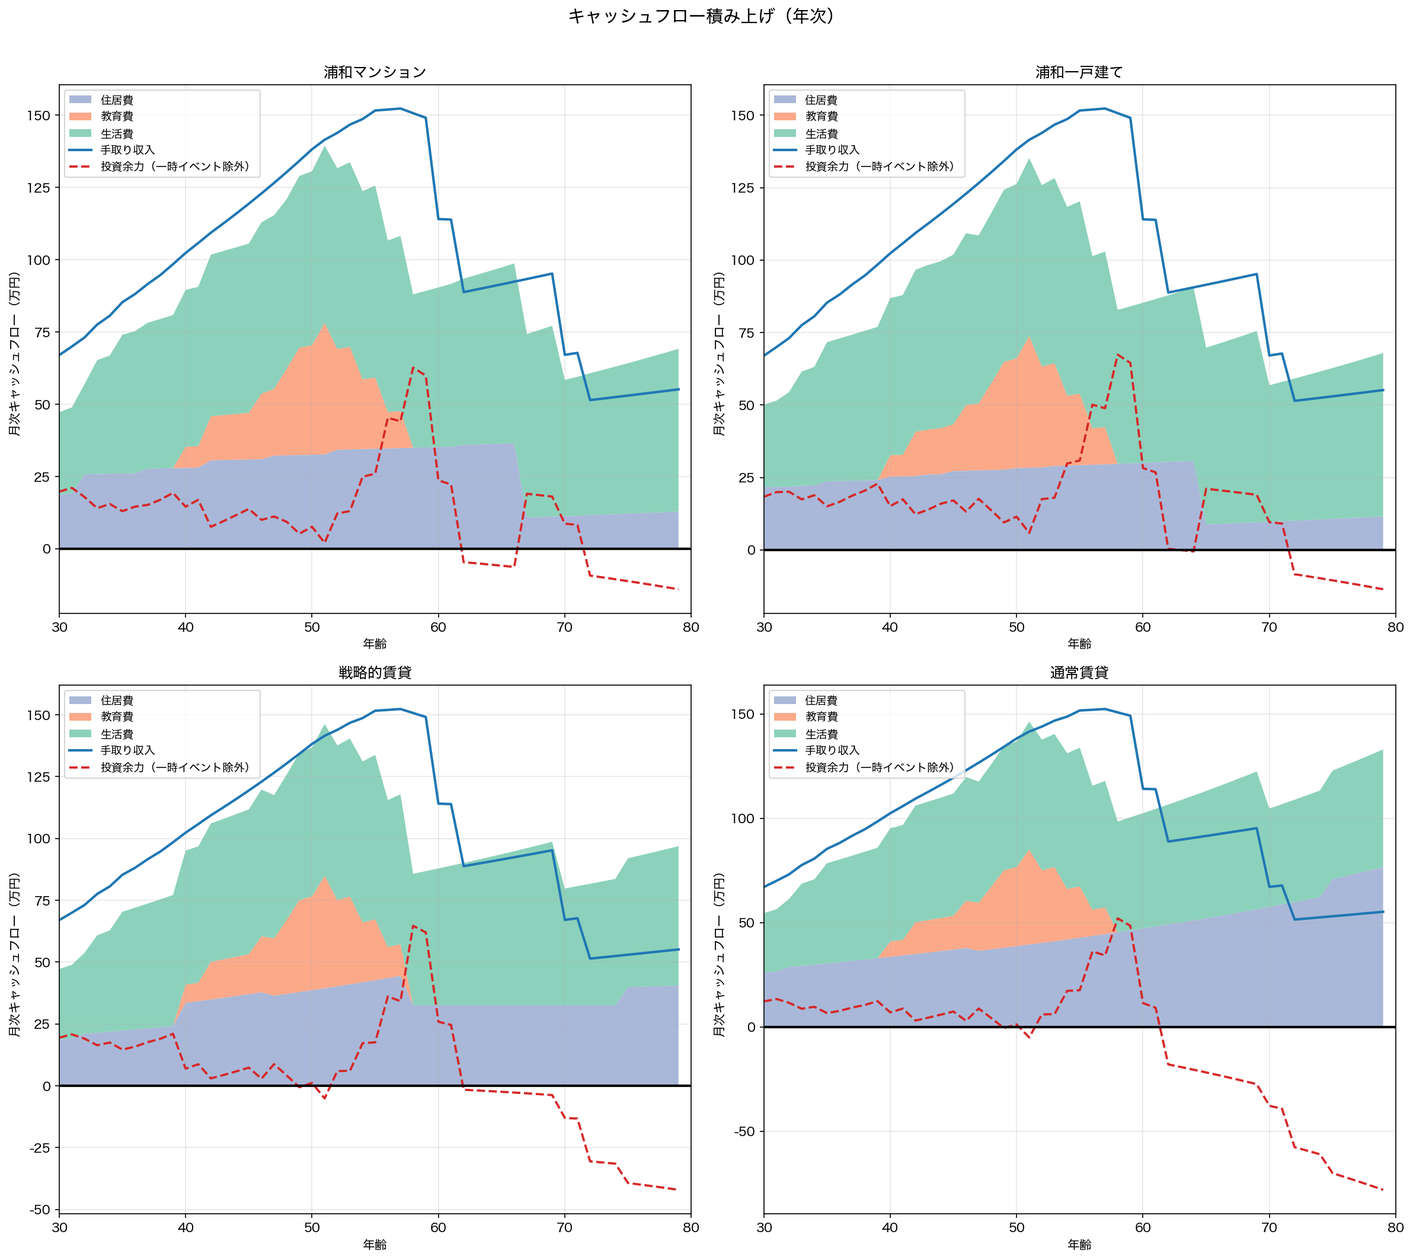
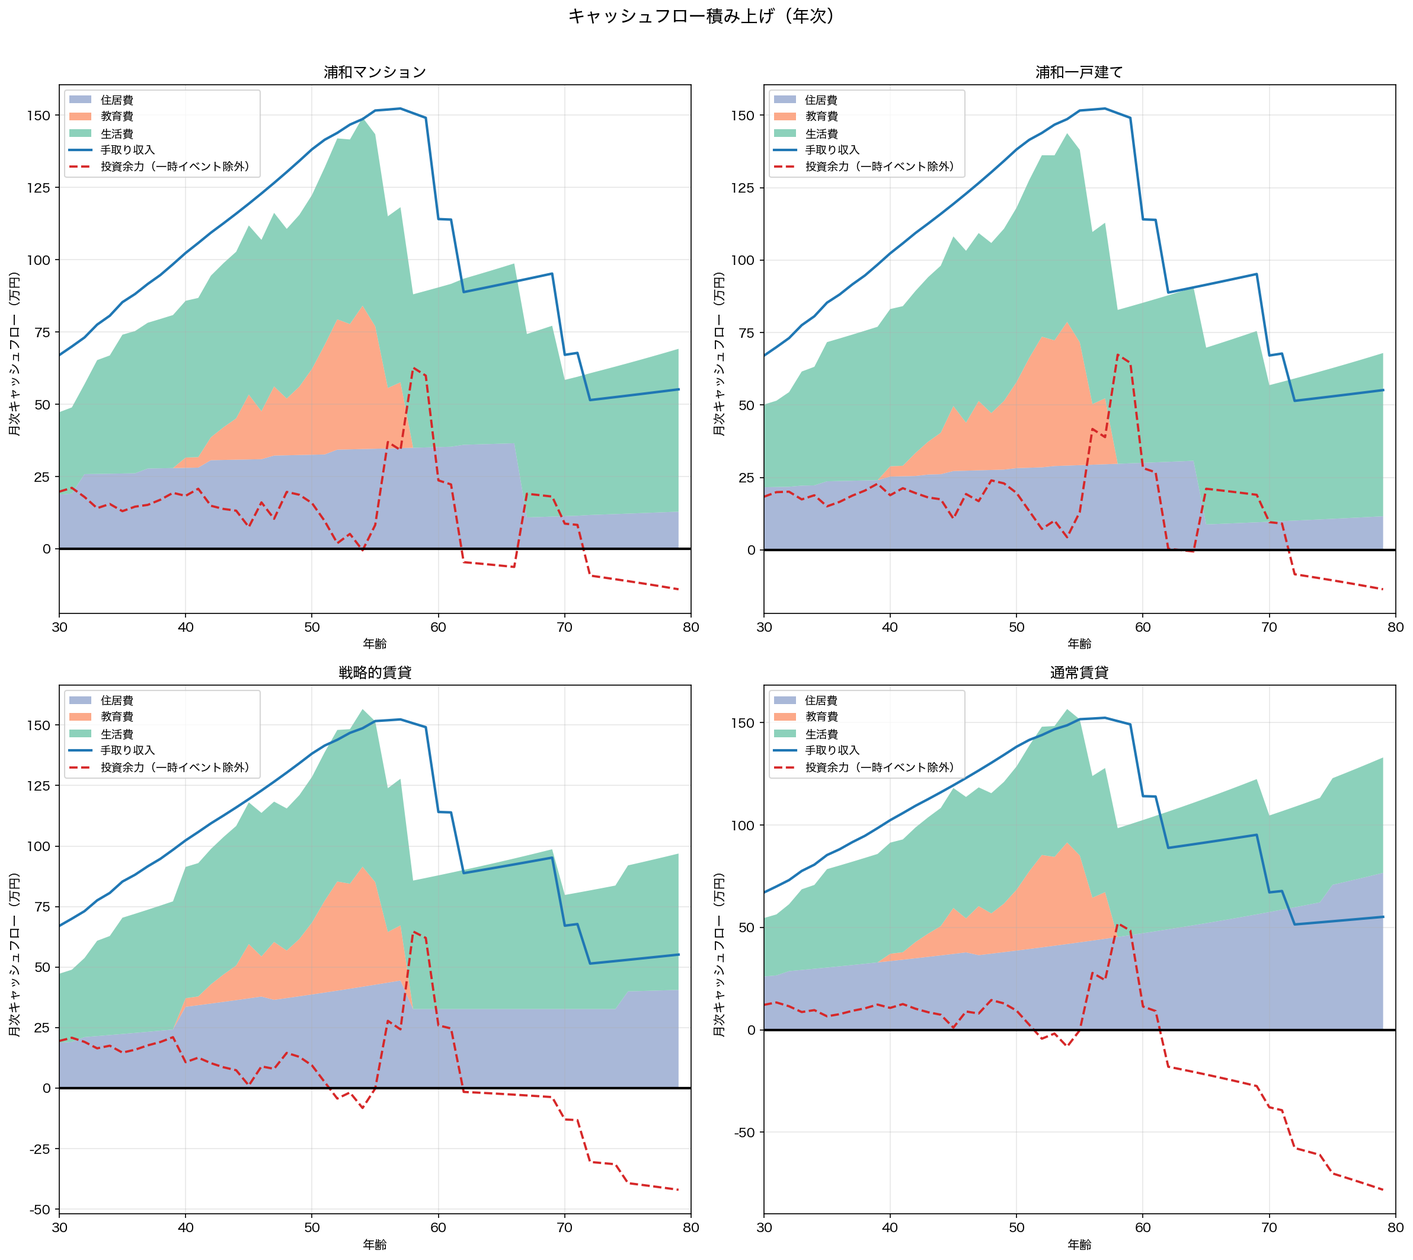
Replace education ratio model with 4-track annual schedule
Replace education_cost_monthly × stage-ratio with _EDUCATION_COSTS
dictionary (child_age 7-27 → 4-tuple: national-arts/science,
private-arts/science in 万円/year). New params: education_private_from,
education_field, education_boost, education_grad. Elementary school
costs are uniform across all tracks (public). Old TOML education key
auto-migrated in load_config().

diff --git a/tests/test_simulation.py b/tests/test_simulation.py
@@ -73,19 +73,19 @@ class TestSnapshotAge37:
 
     def test_mansion(self):
         r = simulate_strategy(UrawaMansion(800), self.params, husband_start_age=37, wife_start_age=37, child_birth_ages=[39])
-        assert r["after_tax_net_assets"] == pytest.approx(43387.448210, abs=0.01)
+        assert r["after_tax_net_assets"] == pytest.approx(46065.007126, abs=0.01)
 
     def test_house(self):
         r = simulate_strategy(UrawaHouse(800), self.params, husband_start_age=37, wife_start_age=37, child_birth_ages=[39])
-        assert r["after_tax_net_assets"] == pytest.approx(50384.390994, abs=0.01)
+        assert r["after_tax_net_assets"] == pytest.approx(53039.812717, abs=0.01)
 
     def test_strategic_rental(self):
         r = simulate_strategy(StrategicRental(800, child_birth_ages=[39], start_age=37), self.params, husband_start_age=37, wife_start_age=37, child_birth_ages=[39])
-        assert r["after_tax_net_assets"] == pytest.approx(49043.730528, abs=0.01)
+        assert r["after_tax_net_assets"] == pytest.approx(51692.082683, abs=0.01)
 
     def test_normal_rental(self):
         r = simulate_strategy(NormalRental(800), self.params, husband_start_age=37, wife_start_age=37, child_birth_ages=[39])
-        assert r["after_tax_net_assets"] == pytest.approx(38459.588921, abs=0.01)
+        assert r["after_tax_net_assets"] == pytest.approx(41179.222965, abs=0.01)
 
 
 class TestSnapshotDetails:
@@ -96,7 +96,7 @@ class TestSnapshotDetails:
         self.r = simulate_strategy(UrawaMansion(800), params, husband_start_age=37, wife_start_age=37, child_birth_ages=[39])
 
     def test_nisa_balance(self):
-        assert self.r["nisa_balance"] == pytest.approx(31418.841373, abs=0.01)
+        assert self.r["nisa_balance"] == pytest.approx(31569.281563, abs=0.01)
 
     def test_land_value(self):
         assert self.r["land_value_80"] == pytest.approx(2613.043089, abs=0.01)
@@ -123,7 +123,7 @@ class TestEdgeAges:
     def test_age_25(self):
         params = SimulationParams(husband_income=47.125, wife_income=25.375)
         r = simulate_strategy(StrategicRental(800, child_birth_ages=[39], start_age=25), params, husband_start_age=25, wife_start_age=25, child_birth_ages=[39])
-        assert r["after_tax_net_assets"] == pytest.approx(244831.565034, abs=0.01)
+        assert r["after_tax_net_assets"] == pytest.approx(248161.353920, abs=0.01)
         assert r["bankrupt_age"] is None
 
     def test_age_45(self):
@@ -133,7 +133,7 @@ class TestEdgeAges:
         params = SimulationParams(husband_income=47.125, wife_income=25.375)
         r = simulate_strategy(StrategicRental(800, child_birth_ages=[39], start_age=45), params, husband_start_age=45, wife_start_age=45, child_birth_ages=[39])
         assert r["bankrupt_age"] is None
-        assert r["after_tax_net_assets"] == pytest.approx(7824.205060, abs=0.01)
+        assert r["after_tax_net_assets"] == pytest.approx(10496.531001, abs=0.01)
 
 
 class TestBankruptcy:
@@ -172,7 +172,7 @@ class TestDisciplineFactor:
         r_full = simulate_strategy(StrategicRental(800, child_birth_ages=[39], start_age=37), params, husband_start_age=37, wife_start_age=37, discipline_factor=1.0, child_birth_ages=[39])
         r_reduced = simulate_strategy(StrategicRental(800, child_birth_ages=[39], start_age=37), params, husband_start_age=37, wife_start_age=37, discipline_factor=0.8, child_birth_ages=[39])
         assert r_full["after_tax_net_assets"] > r_reduced["after_tax_net_assets"]
-        assert r_reduced["after_tax_net_assets"] == pytest.approx(39865.698292, abs=0.01)
+        assert r_reduced["after_tax_net_assets"] == pytest.approx(42067.172583, abs=0.01)
 
 
 class TestChildBirthAges:
@@ -180,7 +180,7 @@ class TestChildBirthAges:
         """child_birth_ages=[38] should produce known snapshot."""
         params = SimulationParams(husband_income=47.125, wife_income=25.375)
         r = simulate_strategy(StrategicRental(800, child_birth_ages=[38], start_age=37), params, husband_start_age=37, wife_start_age=37, child_birth_ages=[38])
-        assert r["after_tax_net_assets"] == pytest.approx(48287.537793, abs=0.01)
+        assert r["after_tax_net_assets"] == pytest.approx(51056.142031, abs=0.01)
 
     def test_no_child_increases_assets(self):
         """No education costs → more investable → higher assets."""
@@ -628,3 +628,67 @@ class TestDivorceDeathMutualExclusion:
                 assert timeline.spouse_death_month is None
             if timeline.spouse_death_month is not None:
                 assert timeline.divorce_month is None
+
+
+class TestEducationSchedule:
+    """Tests for 4-track education cost schedule."""
+
+    def test_track_totals_undergrad(self):
+        """Verify total costs match plan table (学部 = ages 7-22)."""
+        from housing_sim_jp.simulation import _get_education_annual_cost
+        for pf, f, expected in [
+            ("", "文系", 1200), ("", "理系", 1230),
+            ("中学", "文系", 1630), ("中学", "理系", 1900),
+        ]:
+            total = sum(_get_education_annual_cost(a, pf, f, 1.0) for a in range(7, 23))
+            assert total == expected, f"{pf or '国立'}/{f}: got {total}, expected {expected}"
+
+    def test_all_public_elementary(self):
+        """Elementary school (7-12) costs are identical across all tracks."""
+        from housing_sim_jp.simulation import _get_education_annual_cost
+        for age in range(7, 13):
+            costs = [
+                _get_education_annual_cost(age, pf, f, 1.0)
+                for pf in ["", "中学", "高校", "大学"]
+                for f in ["文系", "理系"]
+            ]
+            assert len(set(costs)) == 1, f"age {age}: expected uniform, got {costs}"
+
+    def test_boost_applies_to_exam_years(self):
+        """boost should only affect ages 12, 15, 18."""
+        from housing_sim_jp.simulation import _get_education_annual_cost
+        for age in [12, 15, 18]:
+            normal = _get_education_annual_cost(age, "", "理系", 1.0)
+            boosted = _get_education_annual_cost(age, "", "理系", 1.2)
+            assert boosted == pytest.approx(normal * 1.2)
+        for age in [11, 13, 17]:
+            normal = _get_education_annual_cost(age, "", "理系", 1.0)
+            boosted = _get_education_annual_cost(age, "", "理系", 1.2)
+            assert boosted == normal
+
+    def test_private_from_university(self):
+        """private_from='大学' should only affect ages >= 19."""
+        from housing_sim_jp.simulation import _get_education_annual_cost
+        for age in range(7, 19):
+            pub = _get_education_annual_cost(age, "", "理系", 1.0)
+            priv = _get_education_annual_cost(age, "大学", "理系", 1.0)
+            assert pub == priv, f"age {age}: should be same"
+        pub19 = _get_education_annual_cost(19, "", "理系", 1.0)
+        priv19 = _get_education_annual_cost(19, "大学", "理系", 1.0)
+        assert priv19 > pub19
+
+    def test_private_from_higher_cost(self):
+        """Earlier private switch → higher total cost."""
+        from housing_sim_jp.simulation import _get_education_annual_cost
+        totals = {}
+        for pf in ["", "大学", "高校", "中学"]:
+            totals[pf] = sum(_get_education_annual_cost(a, pf, "理系", 1.0) for a in range(7, 23))
+        assert totals["中学"] > totals["高校"] > totals["大学"] > totals[""]
+
+    def test_new_model_in_simulation(self):
+        """Simulation should use new education params (not old education_cost_monthly)."""
+        params_pub = SimulationParams(husband_income=47.125, wife_income=25.375, education_private_from="")
+        params_priv = SimulationParams(husband_income=47.125, wife_income=25.375, education_private_from="中学")
+        r_pub = simulate_strategy(StrategicRental(800, child_birth_ages=[39], start_age=37), params_pub, husband_start_age=37, wife_start_age=37, child_birth_ages=[39])
+        r_priv = simulate_strategy(StrategicRental(800, child_birth_ages=[39], start_age=37), params_priv, husband_start_age=37, wife_start_age=37, child_birth_ages=[39])
+        assert r_pub["after_tax_net_assets"] > r_priv["after_tax_net_assets"]

diff --git a/housing_sim_jp/config.py b/housing_sim_jp/config.py
@@ -19,7 +19,10 @@ DEFAULTS = {
     "children": "30,33",
     "living_premium": 0.0,
     "child_living": 5.0,
-    "education": 10.0,
+    "education_private_from": "",
+    "education_field": "理系",
+    "education_boost": 1.0,
+    "education_grad": "学部",
     "car": False,
     "pets": "",
     "relocation": False,
@@ -66,6 +69,20 @@ def load_config(path: Path | None = None) -> dict:
         elif isinstance(v, int):
             # Backward compat: bare integer → empty (0) or error guidance
             raw["pets"] = "" if v == 0 else str(v)
+    # Migrate legacy education key → new 4-parameter model
+    if "education" in raw and "education_private_from" not in raw:
+        edu = raw.pop("education")
+        if isinstance(edu, (int, float)):
+            if edu <= 12:
+                raw["education_private_from"] = ""
+            elif edu <= 17:
+                raw["education_private_from"] = "高校"
+            else:
+                raw["education_private_from"] = "中学"
+            raw.setdefault("education_field", "理系")
+            raw.setdefault("education_boost", 1.0)
+    elif "education" in raw and "education_private_from" in raw:
+        raw.pop("education")  # new params take precedence
     # Normalize special_expenses: TOML [[age, amount, label?], ...] → "age:amount:label,..." string
     if "special_expenses" in raw:
         v = raw["special_expenses"]
@@ -89,10 +106,13 @@ def create_parser(description: str) -> argparse.ArgumentParser:
     parser.add_argument("--savings", type=float, default=None, help=f"初期金融資産・万円 (default: {d['savings']:.0f})")
     parser.add_argument("--husband-income", type=float, default=None, help=f"夫の月額手取り・万円 (default: {d['husband_income']})")
     parser.add_argument("--wife-income", type=float, default=None, help=f"妻の月額手取り・万円 (default: {d['wife_income']})")
-    parser.add_argument("--children", type=str, default=None, help=f"出産時の妻の年齢（カンマ区切り、:修士/:博士で大学院進学、例: 30,33:博士 / noneで子なし）(default: {d['children']})")
+    parser.add_argument("--children", type=str, default=None, help=f"出産時の妻の年齢（カンマ区切り、例: 30,33 / noneで子なし）(default: {d['children']})")
     parser.add_argument("--living-premium", type=float, default=None, help=f"生活費プレミアム（年齢別ベースラインへの上乗せ、万円/月）(default: {d['living_premium']})")
     parser.add_argument("--child-living", type=float, default=None, help=f"子1人あたりの追加生活費（万円/月）(default: {d['child_living']})")
-    parser.add_argument("--education", type=float, default=None, help=f"教育費ピーク/高校（万円/月/人）10=公立+予備校, 15=私立+予備校, 20=私立一貫+エリート塾 (default: {d['education']})")
+    parser.add_argument("--education-private-from", type=str, default=None, help="私立切替ステージ: \"\"=全公立, 中学, 高校, 大学 (default: 全公立)")
+    parser.add_argument("--education-field", type=str, default=None, help="進路: 理系, 文系 (default: 理系)")
+    parser.add_argument("--education-boost", type=float, default=None, help="受験年費用倍率 0.8=節約, 1.0=標準, 1.2=積極 (default: 1.0)")
+    parser.add_argument("--education-grad", type=str, default=None, help="最終学歴: 学部(22歳独立), 修士(24歳), 博士(27歳) (default: 学部)")
     parser.add_argument("--car", action="store_true", default=None, help="車所有（購入300万/7年買替+維持費5万/月を計上）")
     parser.add_argument("--pets", type=str, default=None, help="ペット迎え入れ時の夫の年齢（カンマ区切り、例: 38,40 / noneでペットなし）")
     parser.add_argument("--relocation", action="store_true", default=None, help="転勤族モード（転勤確率が年3%%→10%%に上昇）")
@@ -182,7 +202,10 @@ def build_params(r: dict, pet_sim_ages: tuple[int, ...] = ()) -> SimulationParam
         wife_income=r["wife_income"],
         living_premium=r["living_premium"],
         child_living_cost_monthly=r["child_living"],
-        education_cost_monthly=r["education"],
+        education_private_from=r["education_private_from"],
+        education_field=r["education_field"],
+        education_boost=r["education_boost"],
+        education_grad=r["education_grad"],
         has_car=r["car"],
         pet_adoption_ages=pet_sim_ages,
         husband_ideco=r["husband_ideco"],
@@ -204,7 +227,14 @@ def parse_args(description: str) -> tuple[dict, list[int], list[int], list[int]]
     args = parser.parse_args()
     config = load_config(args.config)
     r = resolve(args, config)
-    child_birth_ages, independence_ages = parse_children_config(r["children"])
+    child_birth_ages, legacy_indep = parse_children_config(r["children"])
+    # education_grad takes precedence; fall back to per-child legacy spec
+    grad = r["education_grad"]
+    grad_age = GRAD_SCHOOL_MAP.get(grad, DEFAULT_INDEPENDENCE_AGE)
+    if grad != DEFAULTS["education_grad"] or all(a == DEFAULT_INDEPENDENCE_AGE for a in legacy_indep):
+        independence_ages = [grad_age] * len(child_birth_ages)
+    else:
+        independence_ages = legacy_indep
     pet_ages = parse_pet_ages(r["pets"])
     return r, child_birth_ages, independence_ages, pet_ages
 

diff --git a/housing_sim_jp/simulation.py b/housing_sim_jp/simulation.py
@@ -449,13 +449,58 @@ def _calc_monthly_income(
 EDUCATION_CHILD_AGE_START = 7   # 小学校入学
 EDUCATION_CHILD_AGE_END = 22    # 大学卒業（デフォルト）
 
-# ステージ別教育費割合（education_cost_monthly = ピーク（高校）金額に対する比率）
-EDUCATION_COST_RATIOS: tuple[tuple[int, int, float], ...] = (
-    (7, 12, 0.4),   # 小学校（習い事・学童）
-    (13, 15, 0.7),  # 中学校（塾開始・部活）
-    (16, 18, 1.0),  # 高校（塾・予備校・受験）← ピーク
-    (19, 27, 0.5),  # 大学・大学院（10=国立60万/年, 15=私立文系90万/年, 20=私立理系120万/年）
-)
+# 4トラック年次教育費データ (child_age → (国立文系, 国立理系, 私立文系, 私立理系), 万円/年)
+_EDUCATION_COSTS: dict[int, tuple[float, float, float, float]] = {
+    7:  (35, 35, 35, 35),      # 小1: 全トラック公立共通
+    8:  (35, 35, 35, 35),
+    9:  (40, 40, 40, 40),
+    10: (70, 70, 70, 70),      # 小4: 中受塾スタート
+    11: (90, 90, 90, 90),
+    12: (130, 130, 130, 130),  # 小6: 中受本番 ← boost対象
+    13: (55, 55, 150, 160),    # 中1: 公立/私立で分岐
+    14: (75, 75, 100, 110),
+    15: (110, 110, 110, 120),  # 中3: 高校受験 ← boost対象
+    16: (50, 50, 110, 120),    # 高1
+    17: (80, 90, 110, 130),    # 高2: 理系で予備校代加算
+    18: (140, 150, 170, 180),  # 高3: 大学受験 ← boost対象
+    19: (110, 110, 150, 220),  # 大1: ピーク（入学金+併願バッファ）
+    20: (60, 60, 110, 150),
+    21: (60, 60, 110, 150),
+    22: (60, 70, 110, 160),    # 大4: 理系は卒研加算
+    23: (60, 60, 90, 110),     # 修士1
+    24: (60, 60, 80, 100),
+    25: (60, 60, 70, 90),      # 博士1
+    26: (60, 60, 60, 80),
+    27: (60, 60, 60, 80),
+}
+_EXAM_YEARS = {12, 15, 18}  # boost対象の受験年
+
+
+def _education_track_index(child_age: int, private_from: str, field: str) -> int:
+    """0=国立文系, 1=国立理系, 2=私立文系, 3=私立理系."""
+    is_private = (
+        (private_from == "中学" and child_age >= 13)
+        or (private_from == "高校" and child_age >= 16)
+        or (private_from == "大学" and child_age >= 19)
+    )
+    is_science = (field == "理系")
+    if is_private:
+        return 3 if is_science else 2
+    return 1 if is_science else 0
+
+
+def _get_education_annual_cost(
+    child_age: int, private_from: str, field: str, boost: float,
+) -> float:
+    """Return annual education cost (万円/年) for a child at given age."""
+    costs = _EDUCATION_COSTS.get(child_age)
+    if costs is None:
+        return 0.0
+    idx = _education_track_index(child_age, private_from, field)
+    cost = costs[idx]
+    if boost != 1.0 and child_age in _EXAM_YEARS:
+        cost *= boost
+    return cost
 
 # 子供が同居する期間（生活費計算用）
 CHILD_HOME_AGE_END = 22  # 大学卒業で独立（デフォルト）
@@ -482,11 +527,11 @@ def _calc_education_and_living(
     for ed_start, ed_end in education_ranges:
         if ed_start <= age <= ed_end:
             child_age = age - ed_start + EDUCATION_CHILD_AGE_START
-            ratio = next(
-                (r for lo, hi, r in EDUCATION_COST_RATIOS if lo <= child_age <= hi),
-                0.0,
+            annual = _get_education_annual_cost(
+                child_age, params.education_private_from,
+                params.education_field, params.education_boost,
             )
-            education_cost += params.education_cost_monthly * ratio * inflation
+            education_cost += annual / 12 * inflation
     num_children = sum(
         1 for start, end in child_home_ranges
         if start <= age <= end

diff --git a/housing_sim_jp/scenarios.py b/housing_sim_jp/scenarios.py
@@ -93,7 +93,10 @@ def run_scenarios(
     child_independence_ages: list[int] | None = None,
     living_premium: float = 0.0,
     child_living_cost_monthly: float = 5.0,
-    education_cost_monthly: float = 10.0,
+    education_private_from: str = "",
+    education_field: str = "理系",
+    education_boost: float = 1.0,
+    education_grad: str = "学部",
     has_car: bool = False,
     pet_adoption_ages: tuple[int, ...] = (),
     husband_ideco: float = 2.0,
@@ -120,7 +123,10 @@ def run_scenarios(
             wife_income=wife_income,
             living_premium=living_premium,
             child_living_cost_monthly=child_living_cost_monthly,
-            education_cost_monthly=education_cost_monthly,
+            education_private_from=education_private_from,
+            education_field=education_field,
+            education_boost=education_boost,
+            education_grad=education_grad,
             has_car=has_car,
             pet_adoption_ages=pet_adoption_ages,
             husband_ideco=husband_ideco,

diff --git a/tests/test_scenarios.py b/tests/test_scenarios.py
@@ -42,16 +42,16 @@ class TestScenarioSnapshots:
     def setup_method(self):
         self.results = run_scenarios(
             husband_start_age=37, wife_start_age=37, initial_savings=800, husband_income=47.125, wife_income=25.375,
-            child_birth_ages=[39], education_cost_monthly=15.0,
+            child_birth_ages=[39], education_private_from="高校", education_field="理系",
         )
 
     def test_low_growth_mansion(self):
         r = self.results["低成長"][0]
-        assert r["after_tax_net_assets"] == pytest.approx(29788.529473, abs=0.01)
+        assert r["after_tax_net_assets"] == pytest.approx(29968.726337, abs=0.01)
 
     def test_high_growth_strategic_rental(self):
         r = self.results["高成長"][2]
-        assert r["after_tax_net_assets"] == pytest.approx(86855.272408, abs=0.01)
+        assert r["after_tax_net_assets"] == pytest.approx(87379.614036, abs=0.01)
 
 
 class TestDisciplineFactors:

diff --git a/tests/test_monte_carlo.py b/tests/test_monte_carlo.py
@@ -26,12 +26,12 @@ class TestDeterministicUnchanged:
     def test_mansion_snapshot(self):
         params = SimulationParams(husband_income=47.125, wife_income=25.375)
         r = simulate_strategy(UrawaMansion(800), params, husband_start_age=37, wife_start_age=37, child_birth_ages=[39])
-        assert r["after_tax_net_assets"] == pytest.approx(43387.448210, abs=0.01)
+        assert r["after_tax_net_assets"] == pytest.approx(46065.007126, abs=0.01)
 
     def test_house_snapshot(self):
         params = SimulationParams(husband_income=47.125, wife_income=25.375)
         r = simulate_strategy(UrawaHouse(800), params, husband_start_age=37, wife_start_age=37, child_birth_ages=[39])
-        assert r["after_tax_net_assets"] == pytest.approx(50384.390994, abs=0.01)
+        assert r["after_tax_net_assets"] == pytest.approx(53039.812717, abs=0.01)
 
 
 class TestLogNormalMean:

diff --git a/housing_sim_jp/params.py b/housing_sim_jp/params.py
@@ -64,7 +64,10 @@ class SimulationParams:
     # Living cost parameters
     living_premium: float = 0.0  # ベースラインへの上乗せ（贅沢度、万円/月）
     child_living_cost_monthly: float = 5.0     # 子1人あたりの追加生活費（食費・衣類・日用品等）
-    education_cost_monthly: float = 15.0
+    education_private_from: str = ""      # 私立切替ステージ: "", "中学", "高校", "大学"
+    education_field: str = "理系"          # 進路: "理系", "文系"
+    education_boost: float = 1.0           # 受験年費用倍率
+    education_grad: str = "学部"           # 最終学歴: "学部"(22), "修士"(24), "博士"(27)
     # Car parameters
     has_car: bool = False
     car_purchase_price: float = 300  # 車両購入費（万円）

diff --git a/housing_sim_jp/cli.py b/housing_sim_jp/cli.py
@@ -47,7 +47,9 @@ def _print_header(r: dict, params: SimulationParams, start_age: int, child_birth
         print(f"  iDeCo: 夫{h_ideco:.1f}万 + 妻{w_ideco:.1f}万 = {h_ideco + w_ideco:.1f}万円/月（60歳まで拠出）")
     if child_birth_ages:
         parts = [f"妻{a}歳出産" for a in child_birth_ages]
-        print(f"  教育費: 子{len(child_birth_ages)}人（{', '.join(parts)}）")
+        pf = params.education_private_from or "全公立"
+        grad_label = params.education_grad
+        print(f"  教育費: 子{len(child_birth_ages)}人（{', '.join(parts)}）/ {pf}→{params.education_field} / {grad_label}")
     else:
         print("  教育費: なし")
     if params.special_expenses:

diff --git a/housing_sim_jp/scenario_cli.py b/housing_sim_jp/scenario_cli.py
@@ -191,7 +191,10 @@ def main():
         child_independence_ages=independence_ages or None,
         living_premium=r["living_premium"],
         child_living_cost_monthly=r["child_living"],
-        education_cost_monthly=r["education"],
+        education_private_from=r["education_private_from"],
+        education_field=r["education_field"],
+        education_boost=r["education_boost"],
+        education_grad=r["education_grad"],
         has_car=r["car"],
         pet_adoption_ages=pet_sim_ages,
         husband_ideco=r["husband_ideco"],
